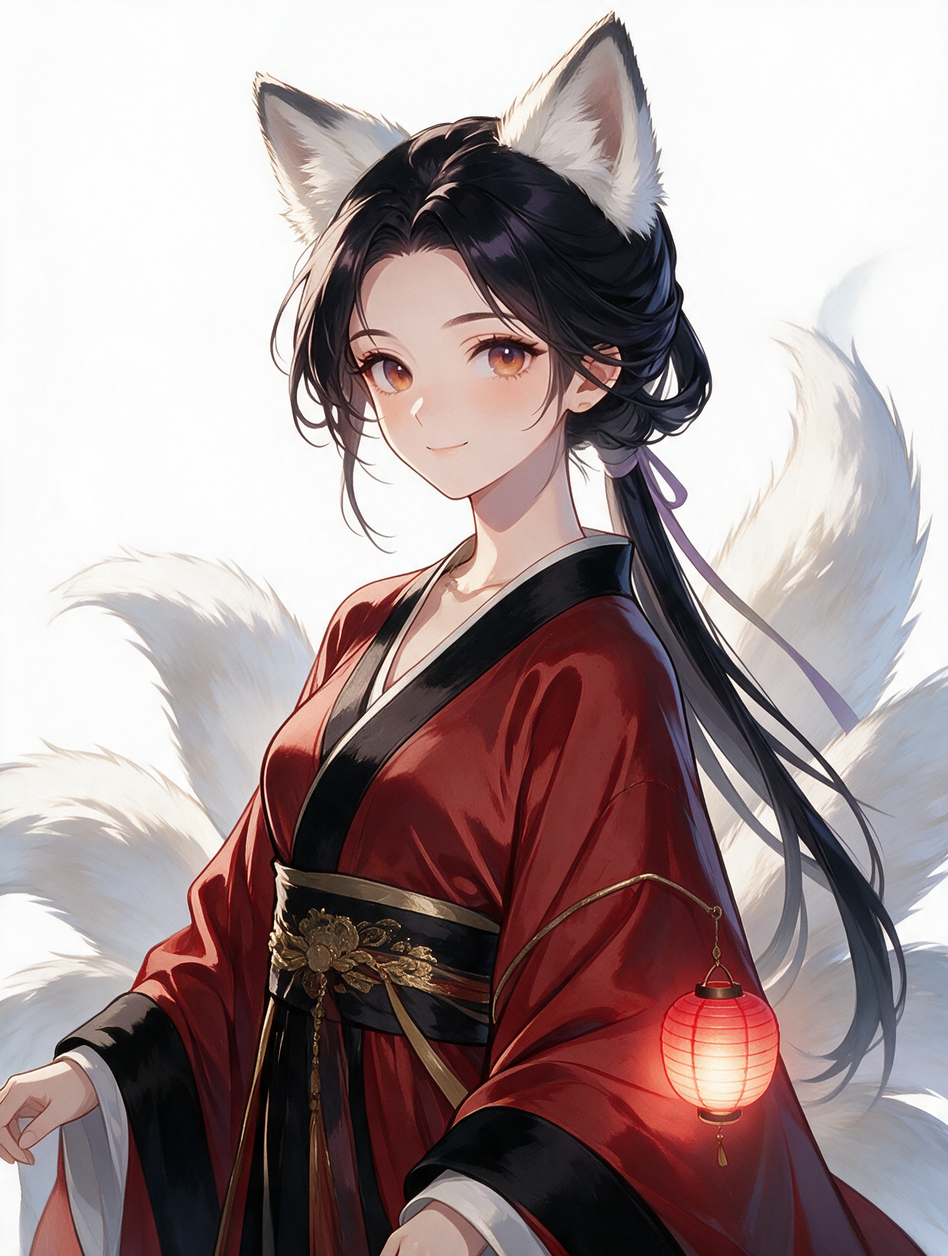
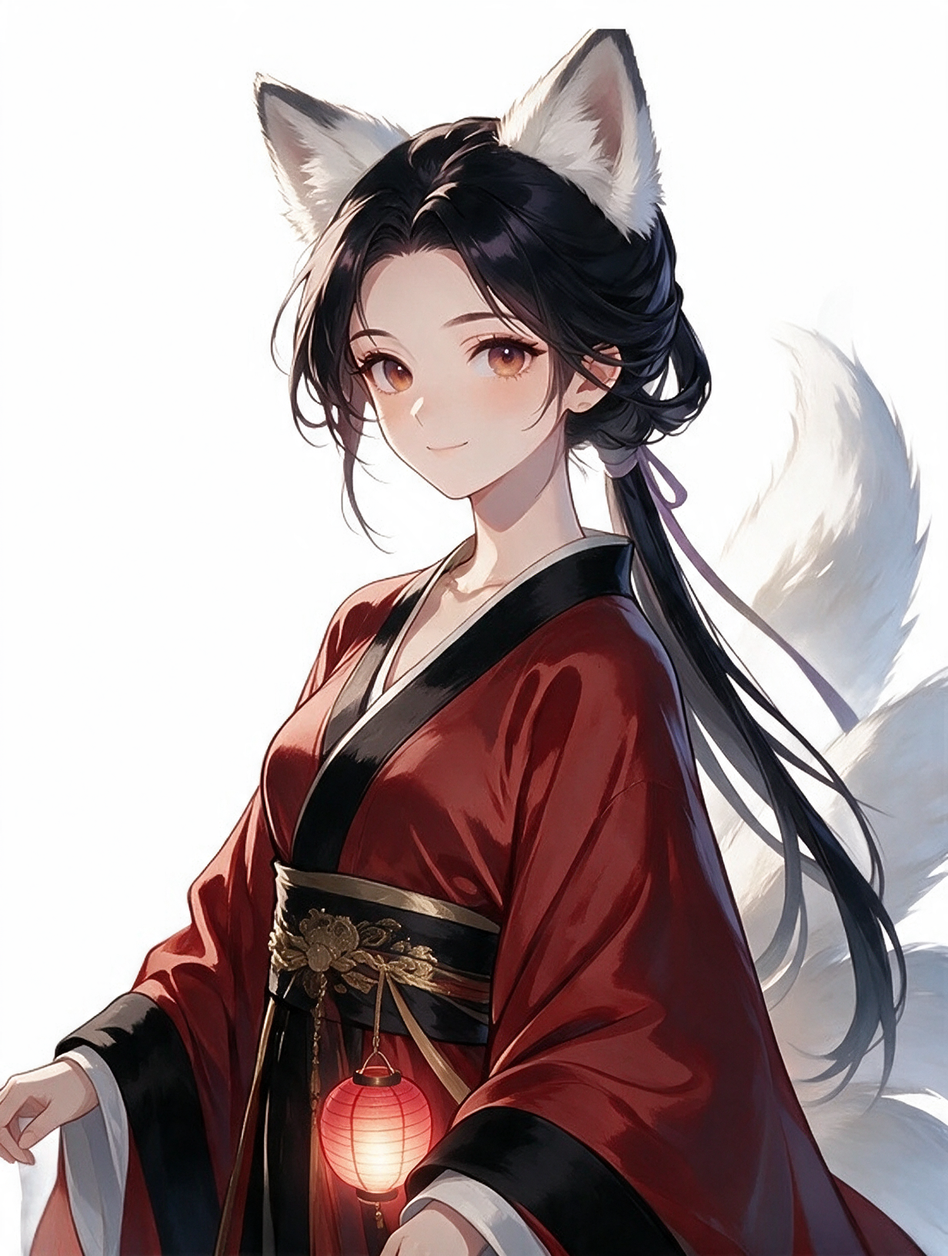
Diaochan fox skin: the lantern hangs from her sash (the user: she wasn't really holding it)
An edit of the skin itself (gen_skins.py --fix; the old one kept as raw/diaochan-fox.orig.webp): the lantern's cord tied to the sash at her waist, the stray cord over the sleeve gone; same size, place and file

Claude-Session: https://claude.ai/code/session_01CG7crrkzqt1vmaeQ7L7w6w

diff --git a/tools/gen_skins.py b/tools/gen_skins.py
@@ -3,6 +3,7 @@ Pro), so the face, hair, pose, framing and style stay and only the clothes chang
 (851-labs/background-remover) onto a canvas the size of the source, the figure where it stood, so a skin swaps in 1:1.
 
     python3 tools/gen_skins.py [SKIN ...]     # -> assets/tk/portraits/skins/<skin>.webp (+ raw/<skin>.png), ~$0.05 each
+    python3 tools/gen_skins.py --fix SKIN "instruction"   # an edit of the skin itself; the old one kept as raw/<skin>.orig.webp
 
 REPLICATE_API_TOKEN comes from the environment. One try each; fix a skin by editing it again, never by repainting.
 """
@@ -37,11 +38,17 @@ SKINS = {   # skin: (source portrait, the new outfit)
 }
 
 
-def edit(skin):
+def edit(skin, fix=None):
     from gen_stills import fetch, http
     from build_portraits import cut_851
     src_id, outfit = SKINS[skin]
     src = Image.open(PORT / f"{src_id}.webp").convert("RGBA")
+    if fix:   # edit the skin as it stands, not the plain portrait
+        (OUT / "raw").mkdir(parents=True, exist_ok=True)
+        orig = OUT / "raw" / f"{skin}.orig.webp"
+        if not orig.exists():
+            Image.open(OUT / f"{skin}.webp").save(orig, quality=95)
+        src, outfit = Image.open(OUT / f"{skin}.webp").convert("RGBA"), fix + " Keep the outfit otherwise exactly as it is."
     W, H = src.size
     # on white, padded to 3:4 (the figure bottom-left as it stands), so the edit comes back the same shape
     PW, PH = max(W, round(H * 3 / 4)), max(H, round(W * 4 / 3))
@@ -65,5 +72,9 @@ def edit(skin):
 
 
 if __name__ == "__main__":
-    for s in sys.argv[1:] or SKINS:
-        edit(s)
+    a = sys.argv[1:]
+    if a[:1] == ["--fix"]:
+        edit(a[1], a[2])
+    else:
+        for s in a or SKINS:
+            edit(s)
